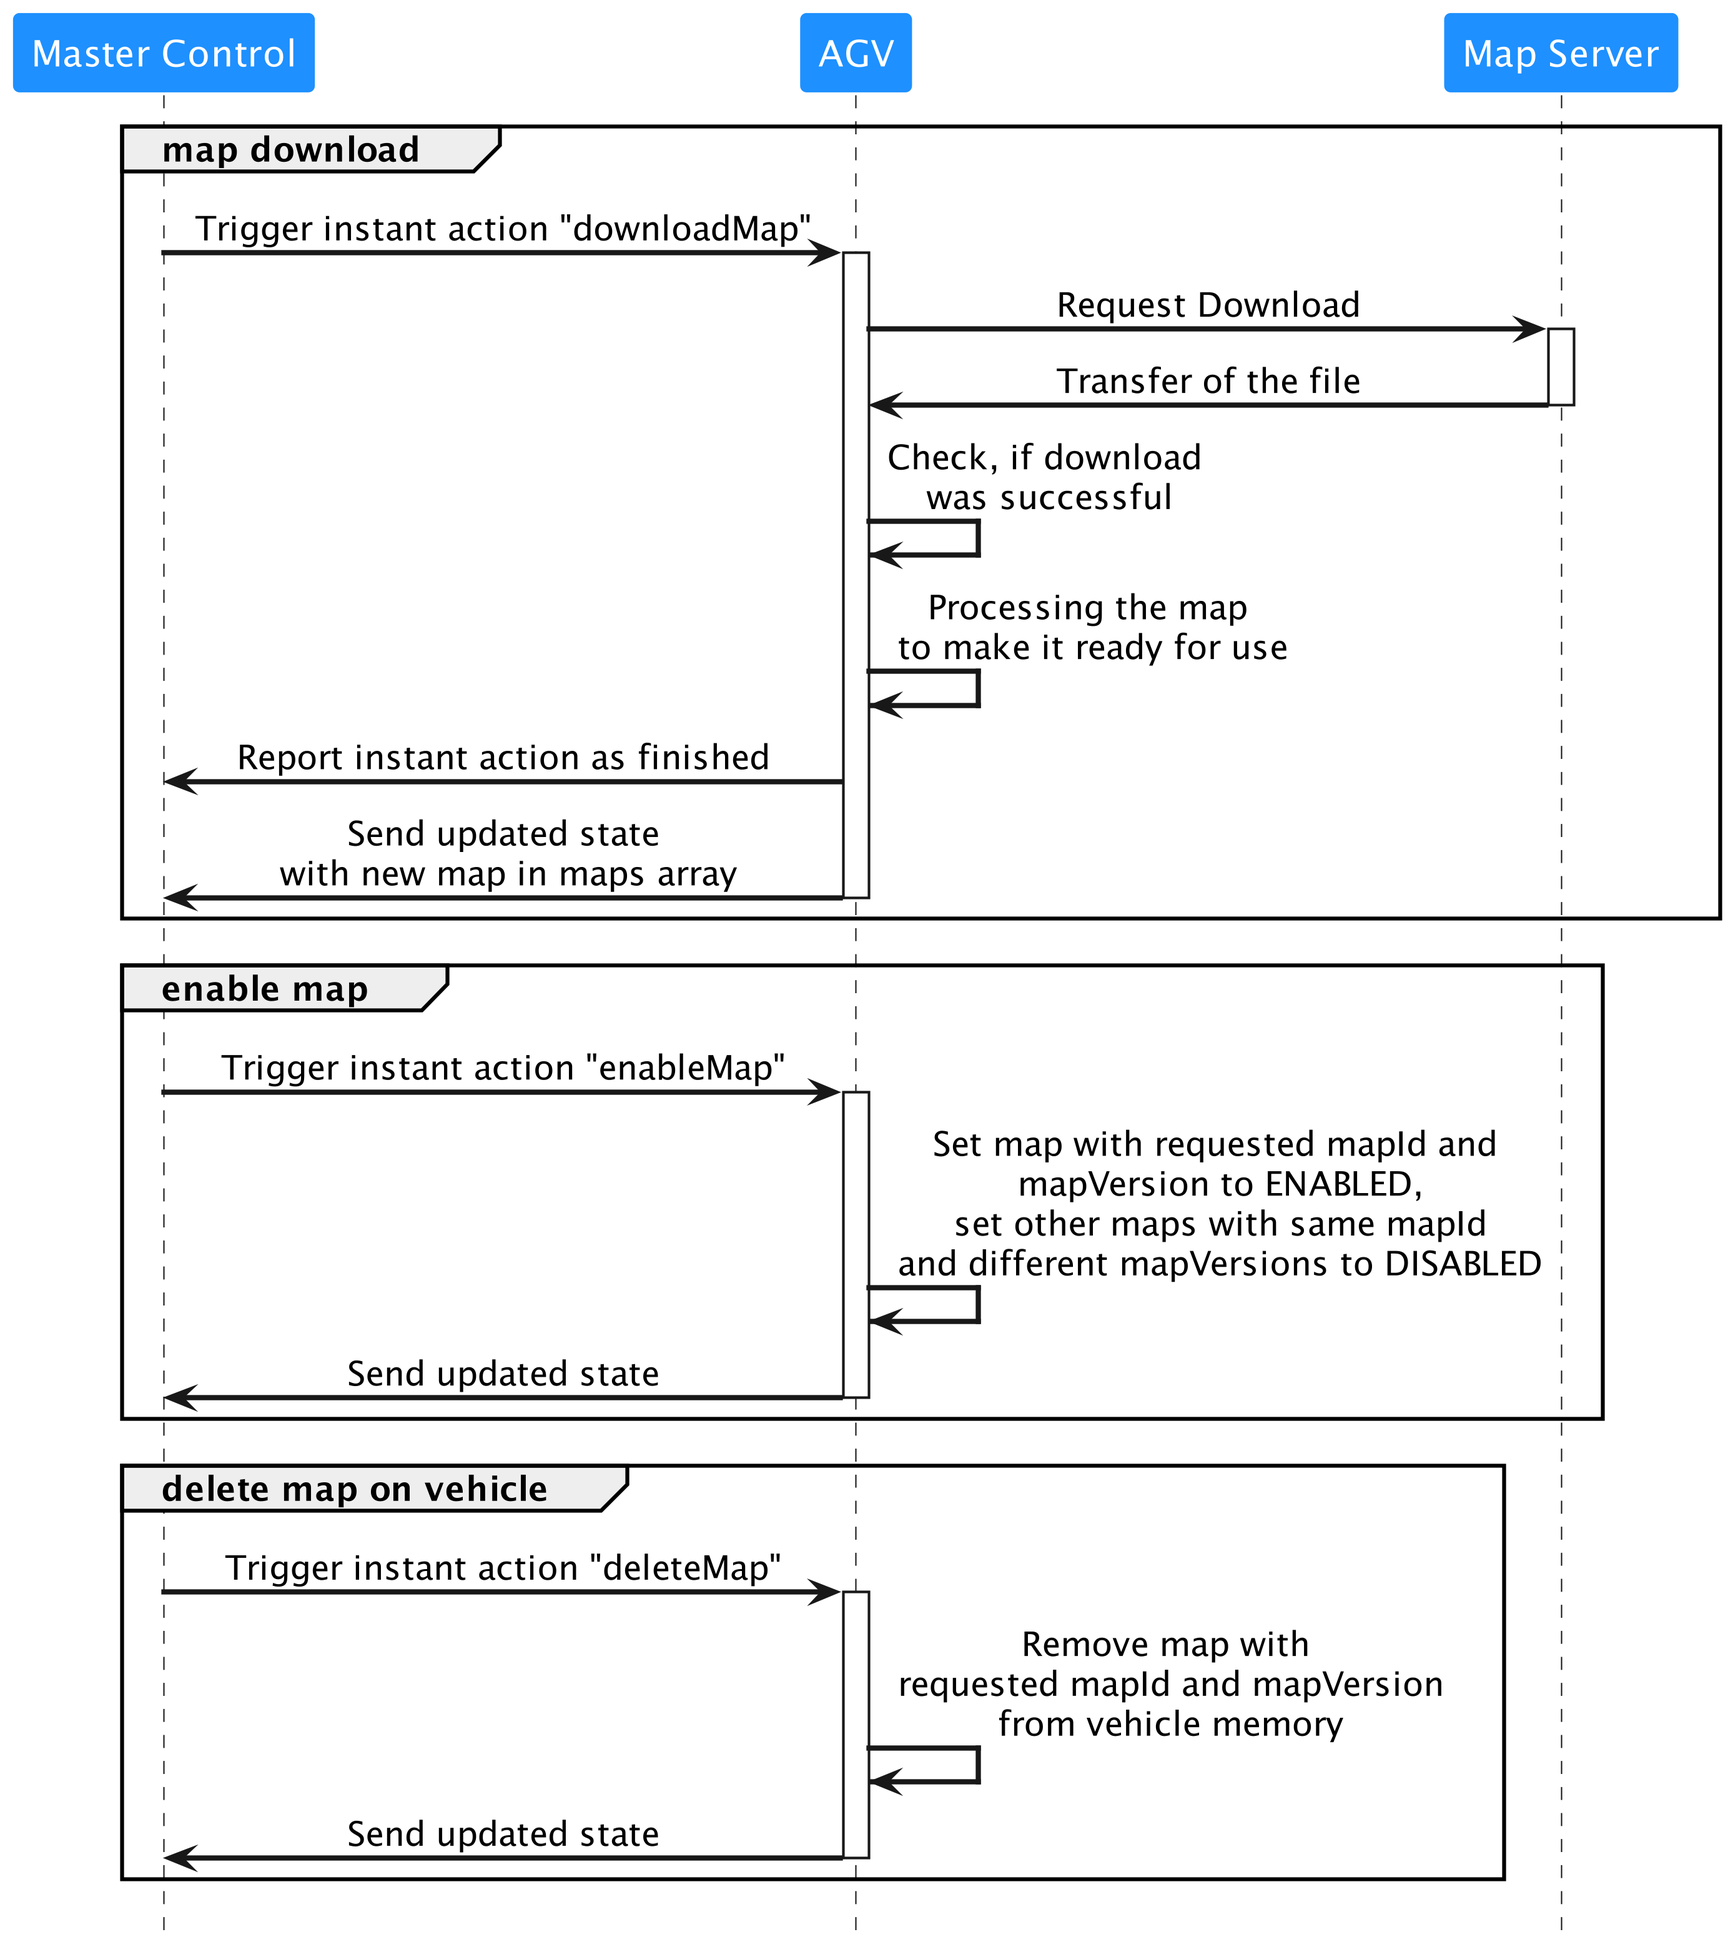
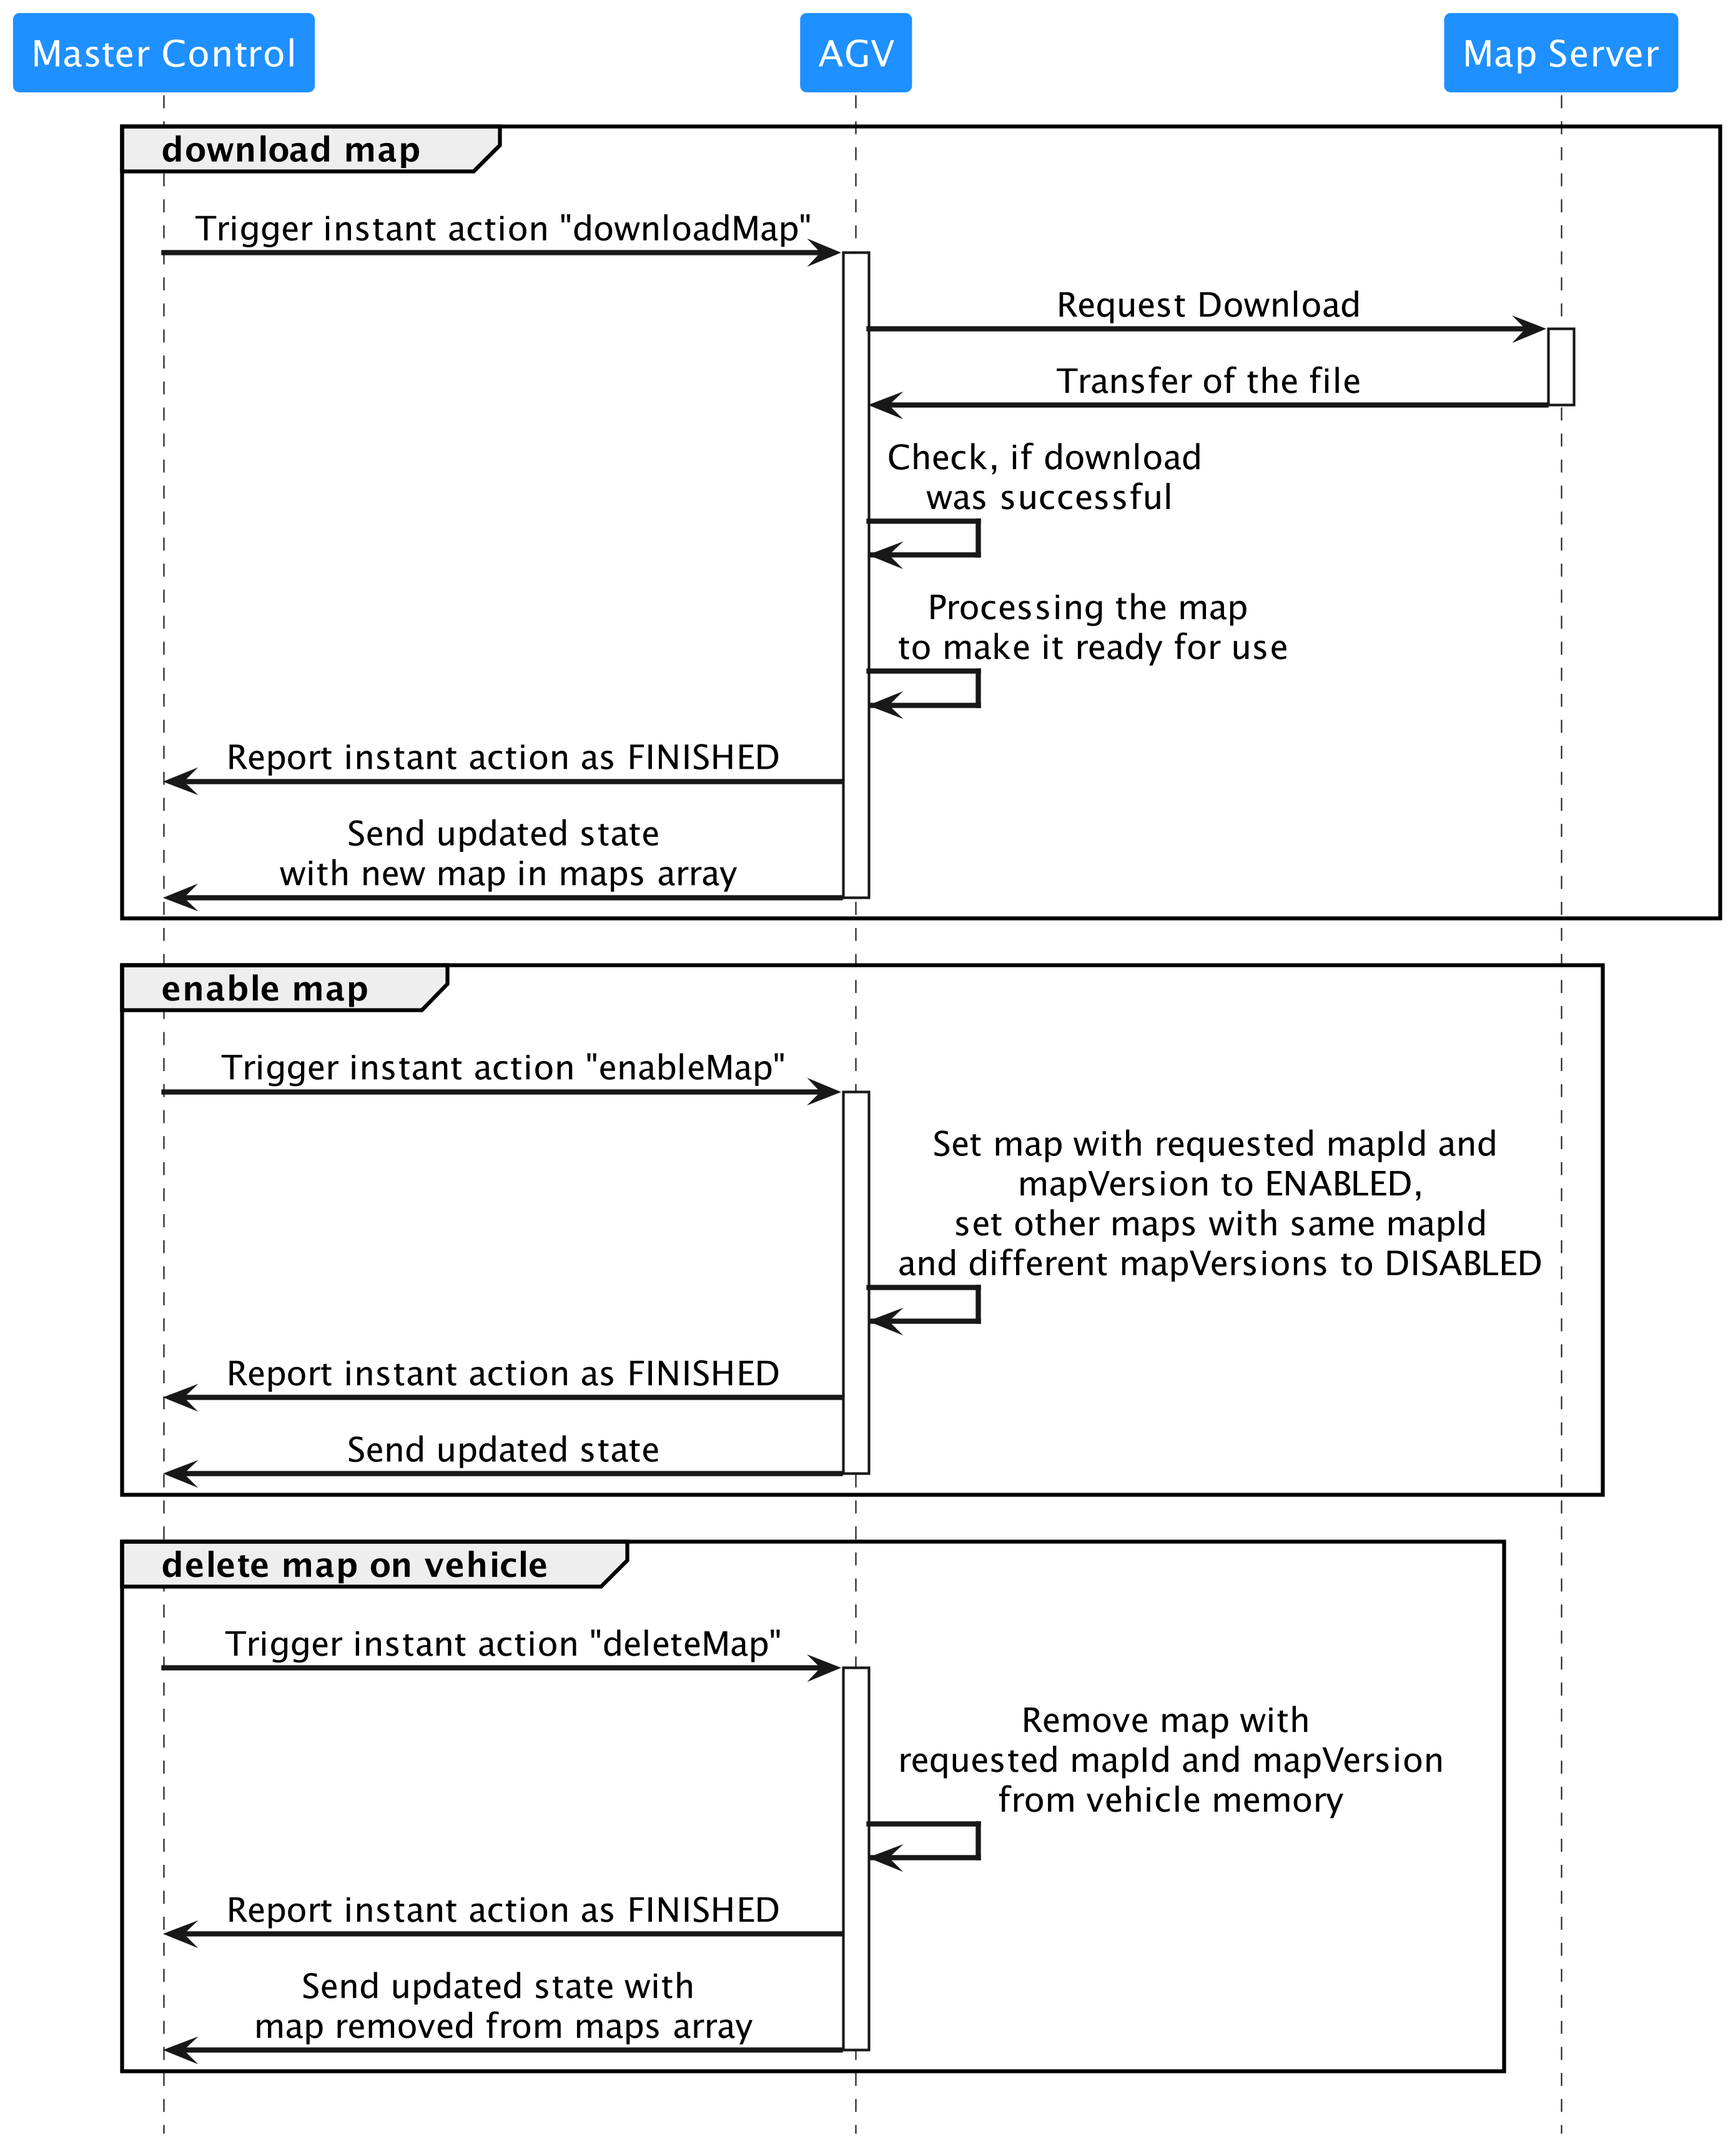
Additional fixes from Github comments Dev/2.1.0 (#293)
* Adjusted the use of startNode and endNode in text, to start node and end node, since objects do not exist

* Updated map_distribution_process, so finishing all instant actions are to be reported and added - in process_order_update to be style consistent.

* Added apostrophe in state.schema

* Fixed error in state.schema

* Changed mapStatus description to focus on mapVersion being enabled or disabled

* Changed from wirth in meter to width in meters for corridor in order.schema and markdown file

diff --git a/VDA5050_EN.md b/VDA5050_EN.md
@@ -735,12 +735,12 @@ endNodeId | | string | nodeId of the last node within the order.
 *maxHeight* | m | float64 | Permitted maximum height of the vehicle, including the load, on the edge.
 *minHeight* | m | float64 | Permitted minimal height of the load handling device on the edge.
 *orientation* | rad | float64 | Orientation of the AGV on the edge. The value `orientationType` defines if it has to be interpreted relative to the global project-specific map coordinate system or tangential to the edge. In case of interpreted tangential to the edge, 0.0 denotes driving forwards and PI denotes driving backwards. <br>Example: orientation Pi/2 rad will lead to a rotation of 90 degrees.<br><br>If AGV starts in different orientation, rotate the vehicle on the edge to the desired orientation, if `rotationAllowed` is set to "true".<br>If `rotationAllowed` is "false", rotate before entering the edge.<br>If that is not possible, reject the order.<br><br>If no trajectory is defined, apply the rotation to the direct path between the two connecting nodes of the edge.<br>If a trajectory is defined for the edge, apply the orientation to the trajectory.
-*orientationType* | | string | Enum {'GLOBAL', 'TANGENTIAL'}: <br>'GLOBAL: relative to the global project-specific map coordinate system;<br>'TANGENTIAL': tangential to the edge.<br><br>If not defined, the default value is 'TANGENTIAL'.
+*orientationType* | | string | Enum {'GLOBAL', 'TANGENTIAL'}: <br>'GLOBAL': relative to the global project-specific map coordinate system;<br>'TANGENTIAL': tangential to the edge.<br><br>If not defined, the default value is 'TANGENTIAL'.
 *direction* | | string | Sets direction at junctions for line-guided or wire-guided vehicles, to be defined initially (vehicle-individual).<br> Examples: "left", "right", "straight".
 *rotationAllowed* | | boolean | "true": rotation is allowed on the edge.<br>"false": rotation is not allowed on the edge.<br><br>Optional:<br>No limit, if not set.
 *maxRotationSpeed* | rad/s | float64| Maximum rotation speed<br><br>Optional:<br>No limit, if not set.
 ***trajectory*** | | JSON object | Trajectory JSON object for this edge as NURBS. <br>Defines the path, on which the AGV should move between the start node and the end node of the edge.<br><br>Optional:<br>Can be omitted, if AGV cannot process trajectories or if AGV plans its own trajectory.
-*length* | m | float64 | Length of the path from startNode to endNode<br><br>Optional:<br>This value is used by line-guided AGVs to decrease their speed before reaching a stop position.
+*length* | m | float64 | Length of the path from the start node to the end node<br><br>Optional:<br>This value is used by line-guided AGVs to decrease their speed before reaching a stop position.
 ***corridor*** | | JSON object | Definition of boundaries in which a vehicle can deviate from its trajectory, e.g., to avoid obstacles.<br>
 **action [action]**<br><br><br> } | | array | Array of actions to be executed on the edge. <br>Empty array, if no actions required. <br>An action triggered by an edge will only be active for the time that the AGV is traversing the edge which triggered the action. <br>When the AGV leaves the edge, the action will stop and the state before entering the edge will be restored.
 
@@ -763,8 +763,8 @@ y | | float64 | Y coordinate described in the world coordinate system.
 Object structure | Unit | Data type | Description
 ---|---|---|---
 _**corridor**_ { | | JSON object |
-leftWidth | m | float64 | Range: [0.0 ... float64.maxValue]<br>Defines the width of the corridor in meter to the left related to the trajectory of the vehicle (see Figure 13).
-rightWidth | m | float64 | Range: [0.0 ... float64.maxValue]<br>Defines the width of the corridor in meter to the right related to the trajectory of the vehicle (see Figure 13).
+leftWidth | m | float64 | Range: [0.0 ... float64.maxValue]<br>Defines the width of the corridor in meters to the left related to the trajectory of the vehicle (see Figure 13).
+rightWidth | m | float64 | Range: [0.0 ... float64.maxValue]<br>Defines the width of the corridor in meters to the right related to the trajectory of the vehicle (see Figure 13).
 *corridorRefPoint* <br><br>**}**| | string | Defines whether the boundaries are valid for the kinematic center or the contour of the vehicle. If not specified the boundaries are valid to the vehicles kinematic center (= 'KC') .<br> Enum { 'KC' , 'CONTOUR' }
 
 ### 6.7 Maps
@@ -883,7 +883,7 @@ action | action states
 ---|:---:
  | | 'INITIALIZING', 'RUNNING', 'PAUSED', 'FINISHED', 'FAILED' |
 
-action | INITIALIZING | RUNNING | PAUSED | FINISHED | FAILED
+action | 'INITIALIZING' | 'RUNNING' | 'PAUSED' | 'FINISHED' | 'FAILED'
 ---|---|---|---|---|---
 startPause | - | Activation of the mode is in preparation. <br>If the AGV supports an instant transition, this state can be omitted. | - | Vehicle stands still. <br>All actions will be paused. <br>The pause mode is activated. <br>The AGV reports .paused: "true". | The pause mode cannot be activated for some reason (e.g., overridden by hardware switch).
 stopPause | - | Deactivation of the mode is in preparation. <br>If the AGV supports an instant transition, this state can be omitted. | - | The pause mode is deactivated. <br>All paused actions will be resumed. <br>The AGV reports .paused: "false". | The pause mode cannot be deactivated for some reason (e.g., overwritten by hardware switch).
@@ -1047,7 +1047,7 @@ Object structure | Unit | Data type | Description
 mapId | | string | ID of the map describing a defined area of the vehicle's workspace.
 mapVersion | | string | Version of the map.
 *mapDescription* | | string | Additional information on the map.
-mapStatus <br>}| | string | Enum {'ENABLED', 'DISABLED'}<br>'ENABLED': Indicates this map is currently active / used on the AGV. At most one map with the same mapId can have its status set to 'ENABLED'.<br>'DISABLED': Indicates this map is currently not enabled on the AGV and thus could be enabled or deleted by request.
+mapStatus <br>}| | string | Enum {'ENABLED', 'DISABLED'}<br>'ENABLED': Indicates this map is currently active / used on the AGV. At most one map with the same mapId can have its status set to 'ENABLED'.<br>'DISABLED': Indicates this map version is currently not enabled on the AGV and thus could be enabled or deleted by request.
 
 Object structure | Unit | Data type | Description
 ---|---|---|---

diff --git a/assets/map_distribution_process_UML.md b/assets/map_distribution_process_UML.md
@@ -14,33 +14,35 @@ participant AGV #dodgerblue
 participant "Map Server" #dodgerblue
 hide footbox
 
-group map download
+group download map
 "Master Control" -> "AGV": Trigger instant action "downloadMap"
 activate AGV
 AGV -> "Map Server": Request Download
 activate "Map Server"
 "Map Server" -> AGV: Transfer of the file
 deactivate "Map Server"
-AGV -> AGV: Check, if download\n was successful
-AGV -> AGV: Processing the map\n to make it ready for use
+"AGV" -> "AGV": Check, if download\n was successful
+"AGV" -> "AGV": Processing the map\n to make it ready for use
 AGV -> "Master Control": Report instant action as FINISHED
-AGV -> "Master Control": Send updated state\n with new map in maps array
+"AGV" -> "Master Control": Send updated state\n with new map in maps array
 deactivate AGV
 end
 
 group enable map
 "Master Control" -> "AGV": Trigger instant action "enableMap"
 activate AGV
-AGV -> AGV: Set map with requested mapId and\n mapVersion to ENABLED,\n set other maps with same mapId\n and different mapVersions to DISABLED
-"Master Control" <- "AGV": Send updated state
+"AGV" -> "AGV": Set map with requested mapId and\n mapVersion to ENABLED,\n set other maps with same mapId\n and different mapVersions to DISABLED
+"AGV" -> "Master Control": Report instant action as FINISHED
+"AGV" -> "Master Control": Send updated state
 deactivate AGV
 end
 
 group delete map on vehicle
 "Master Control" -> "AGV": Trigger instant action "deleteMap"
 activate AGV
-AGV -> AGV: Remove map with\n requested mapId and mapVersion\n from vehicle memory
-"Master Control" <- "AGV": Send updated state with \nmap removed from maps array
+"AGV" -> "AGV": Remove map with\n requested mapId and mapVersion\n from vehicle memory
+"AGV" -> "Master Control": Report instant action as FINISHED
+"AGV" -> "Master Control": Send updated state with \nmap removed from maps array
 deactivate AGV
 end
 @enduml

diff --git a/assets/process_order_update_UML.md b/assets/process_order_update_UML.md
@@ -24,7 +24,7 @@ endif
             endif
             ->yes;
                 #lightgreen:delete states of previous order;
-                #lightgreen:accept order\nset orderId and orderUpdateId\npopulate states of new order (9);
+                #lightgreen:- accept order\n- set orderId and orderUpdateId\n- populate states of new order (9);
           #lightgreen: execute order;
      else (no - received order is update of current order)
         if ((5) is received order update deprecated?) then (yes)
